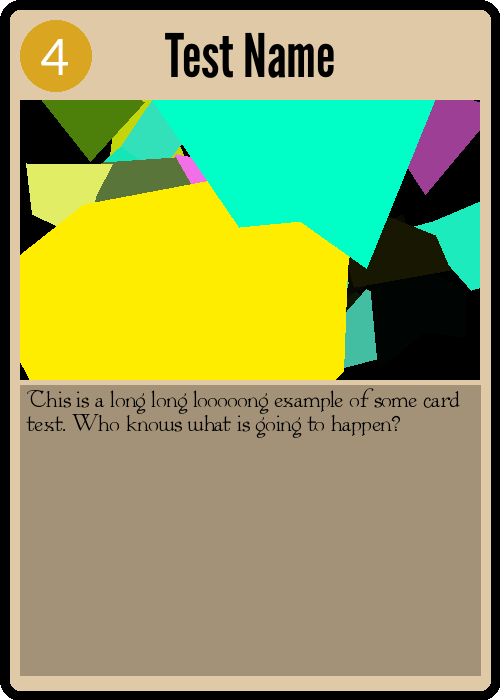
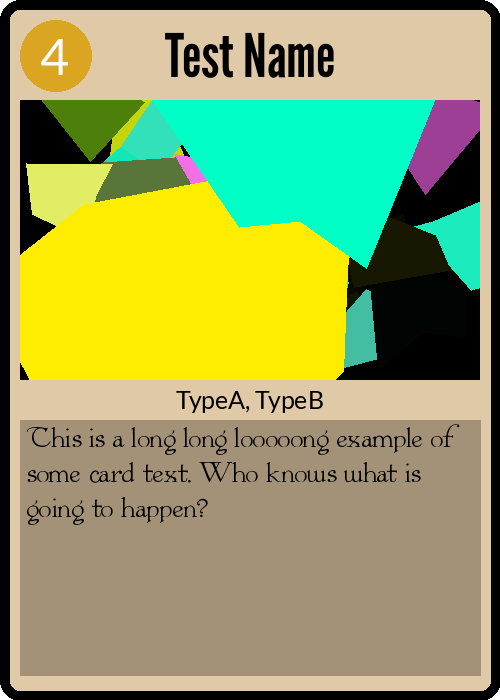
Adds card types, cleans fonts

Changed region(s): [[0.03, 0.54, 0.96, 0.75], [0.06, 0.72, 0.21, 0.75]]

diff --git a/generate_cards.py b/generate_cards.py
@@ -91,6 +91,7 @@ CARD_IMAGE_BB = [
   CARD_IMAGE_BOTTOM,
 ]
 
+# Random generation parameters
 RAND_SHAPE_MIN_RADIUS =  min(CARD_IMAGE_WIDTH, CARD_IMAGE_HEIGHT) * 0.1
 RAND_SHAPE_MAX_RADIUS =  min(CARD_IMAGE_WIDTH, CARD_IMAGE_HEIGHT) * 0.3
 # We want to generate between 3 sided and 10-sided shapes.
@@ -99,11 +100,17 @@ RAND_MAX_POINT_GEN_STEP_RADS = 2 * math.pi / 3
 RAND_MIN_SHAPES = 10
 RAND_MAX_SHAPES = 100
 
-
+# Card Types
+CARD_TYPE_FONT = ImageFont.truetype(str(LATO_FONT_PATH), 25)
+CARD_TYPE_ANCHOR = "md" # middle bottom
+CARD_TYPE_HEIGHT = CARD_HEIGHT / 20
+CARD_TYPE_BOTTOM = CARD_IMAGE_BOTTOM + CARD_TYPE_HEIGHT
+CARD_TYPE_COORD = (CARD_WIDTH/2, CARD_TYPE_BOTTOM)
+CARD_TYPE_COLOR = BLACK
 
 # Body text
-BODY_TEXT_FONT = ImageFont.truetype(str(COLWELLA_FONT_PATH), 20)
-BODY_TEXT_BG_TOP = CARD_IMAGE_BOTTOM + CARD_PADDING
+BODY_TEXT_FONT = ImageFont.truetype(str(COLWELLA_FONT_PATH), 25)
+BODY_TEXT_BG_TOP = CARD_TYPE_BOTTOM + CARD_PADDING
 BODY_TEXT_BG_BOTTOM = CARD_HEIGHT - CARD_MARGIN - CARD_PADDING
 BODY_TEXT_BG_BB = [
   CARD_MARGIN,
@@ -119,6 +126,8 @@ BODY_TEXT_HEIGHT = BODY_TEXT_BG_BOTTOM - BODY_TEXT_BG_TOP - CARD_PADDING
 BODY_TEXT_COORD = (int(CARD_MARGIN + CARD_PADDING * 3 / 2),
                    int(BODY_TEXT_BG_TOP + CARD_PADDING / 2))
 BODY_TEXT_ANCHOR = "la" # top left
+# Number of pixels between lines.
+BODY_TEXT_SPACING = 10
 
 
 def wrap_body_text(body_text:str)->str:
@@ -278,6 +287,15 @@ def generate_card(desc:CardDesc, output_path:pathlib.Path):
   card_art = generate_card_art(desc)
   img.paste(card_art, CARD_IMAGE_BB[:2])
 
+  # Card type text
+  draw.text(
+    CARD_TYPE_COORD,
+    ", ".join(desc.types),
+    CARD_TYPE_COLOR,
+    font=CARD_TYPE_FONT,
+    anchor=CARD_TYPE_ANCHOR,
+  )
+
   # Body text
   draw.rectangle(
     BODY_TEXT_BG_BB,
@@ -289,7 +307,9 @@ def generate_card(desc:CardDesc, output_path:pathlib.Path):
     fill=BODY_TEXT_COLOR,
     anchor=BODY_TEXT_ANCHOR,
     align="left",
-    font=BODY_TEXT_FONT)
+    font=BODY_TEXT_FONT,
+    spacing=BODY_TEXT_SPACING,
+  )
 
 
   print("Saving card:", output_path)
